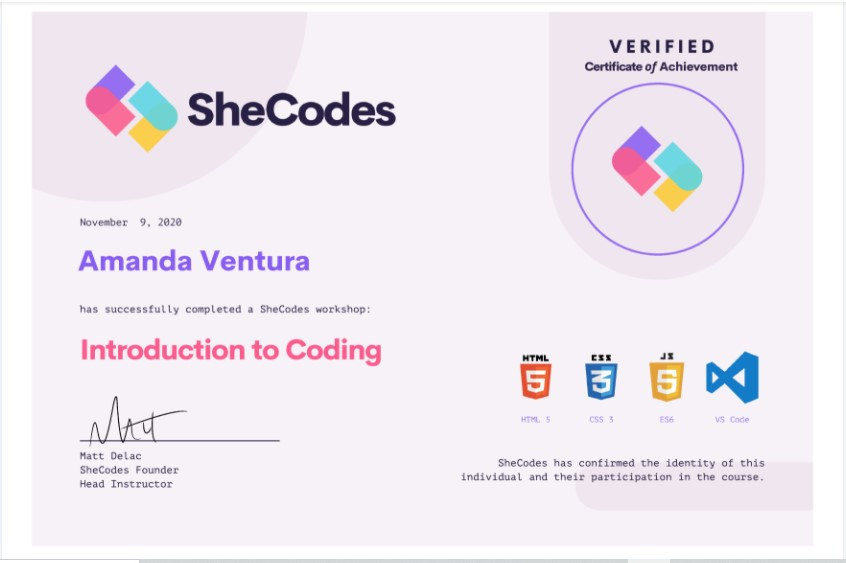
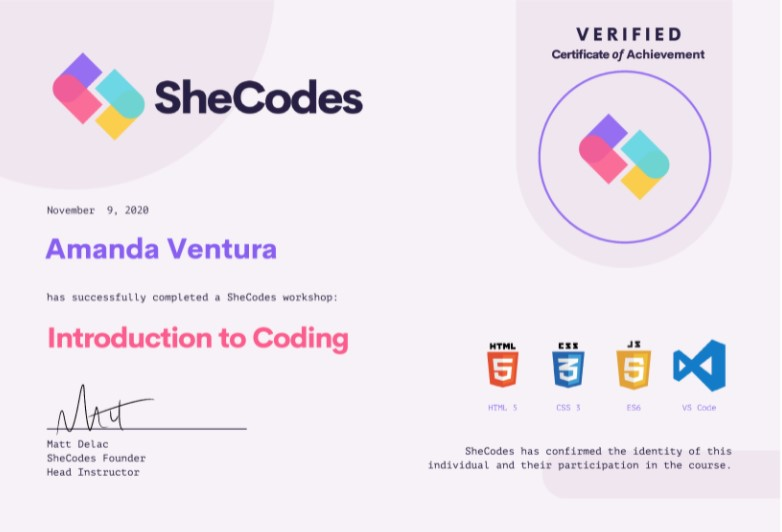
tried to add equal images for certificates

diff --git a/index.html b/index.html
@@ -72,7 +72,7 @@
     <div class="arrow text-center" title="arrow">
             <i class="fas fa-angle-down" alt="arrow"></i>       
     </div> 
-    <div class="certificates row d-flex">
+    <div class="certificates row d-flex justify-content-evenly">
         <div class="col-12">
             <h2 class="text-center p-5" title="certificates">Certificates</h2>
         </div>
@@ -80,7 +80,7 @@
             <img src="/images/basic-certificate.jpg" class="img-fluid rounded p-2" alt="Basic coding-certificate"/>
         </div>
         <div class="col-md-6 mb-5">
-            <img src="/images/plus-certificate.jpg" class="img-fluid rounded p-2" alt="Front end development coding-certificate"/>
+            <img src="/images/plus-certificate.jpg" class="img-fluid rounded p-2"  alt="Front end development coding-certificate"/>
         </div>
         <div class="certificates row d-flex">
         <div class="col-md-6 mb-5">
